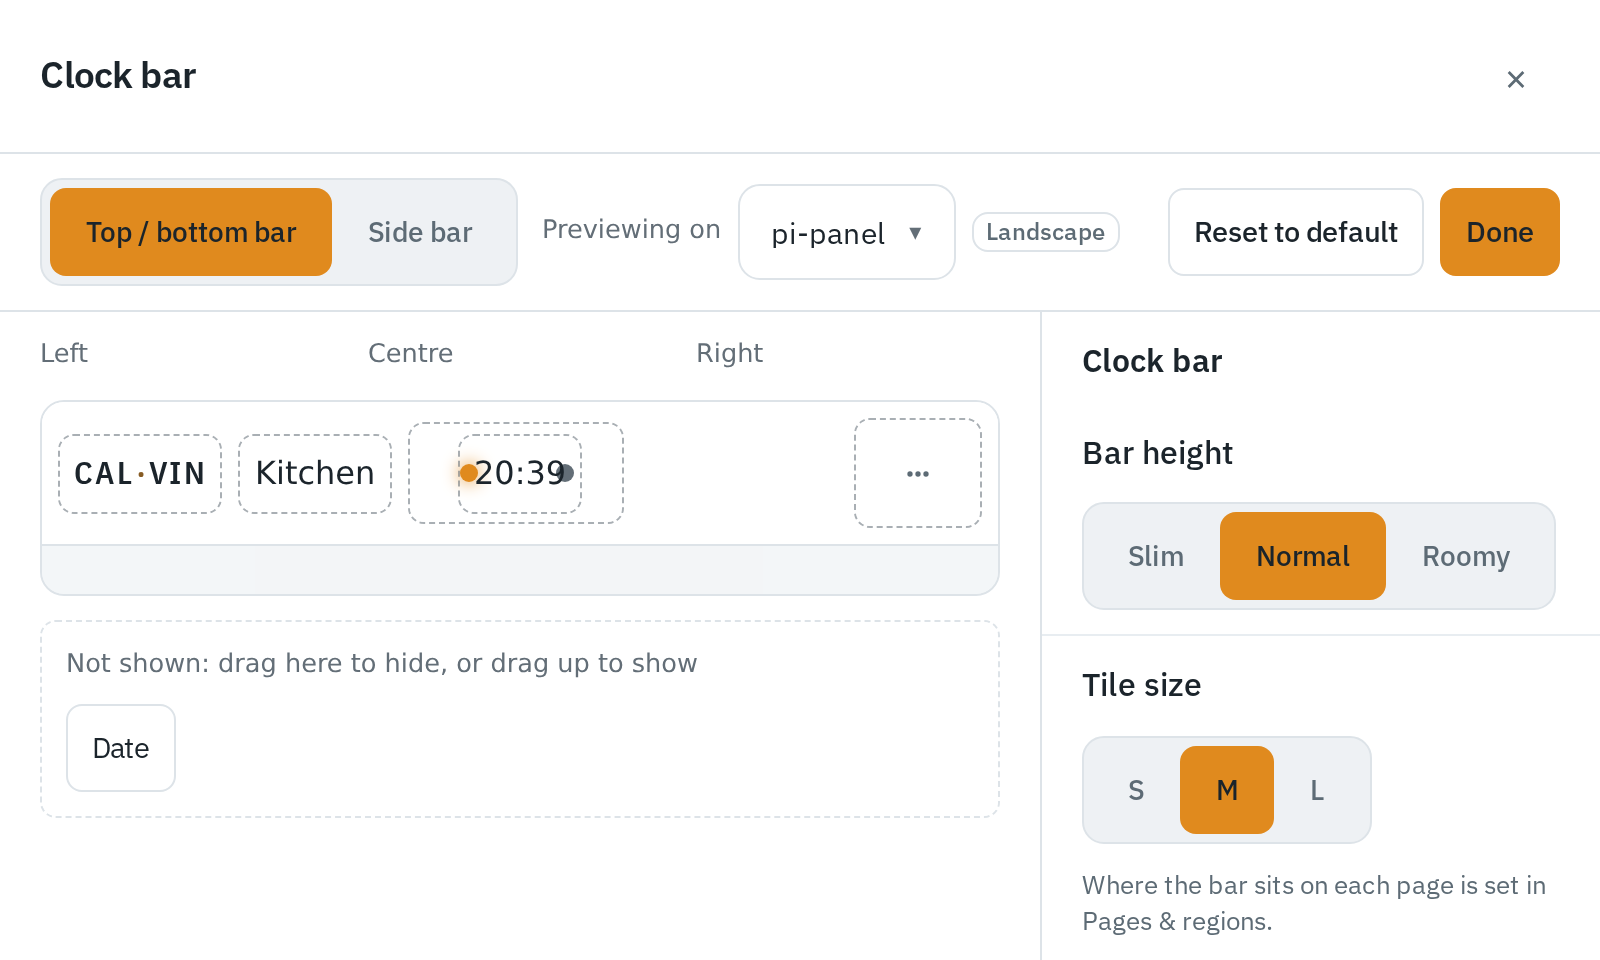
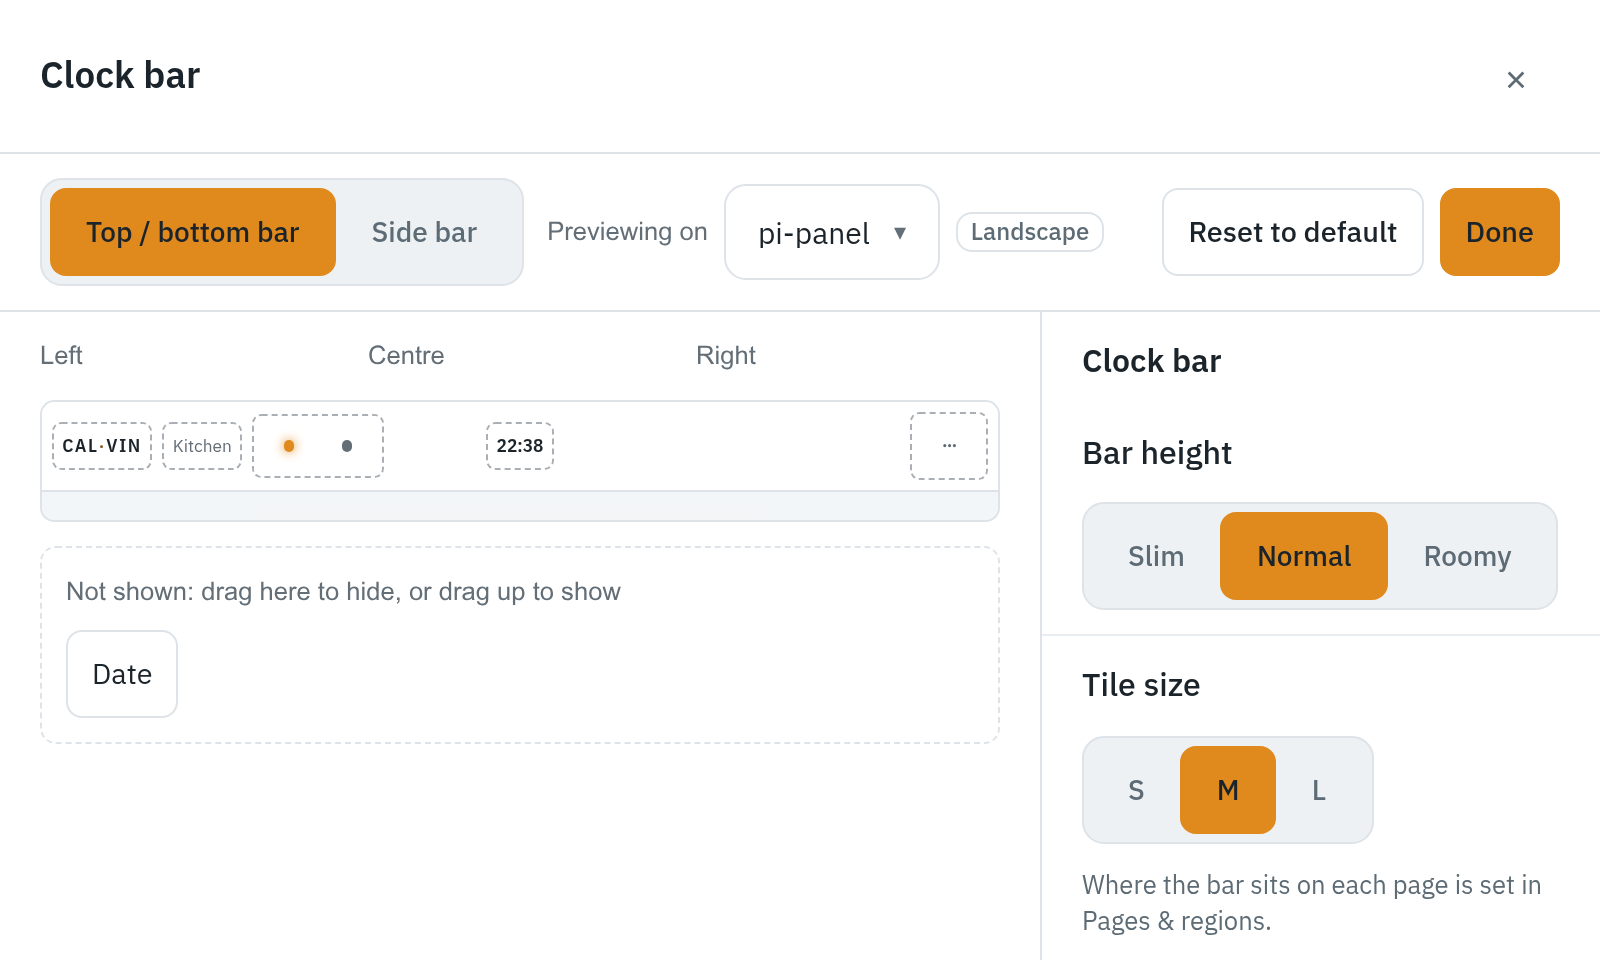
test(e2e): cover the live bar faces and the editor at the previewed width; refresh clock bar editor screenshots (calvin-d7cl)

diff --git a/frontend/tests/e2e/phone/clock-bar-editor-kiosk.spec.js b/frontend/tests/e2e/phone/clock-bar-editor-kiosk.spec.js
@@ -43,6 +43,14 @@ test("kiosk: edit the clock bar at 800x480 and keep it after a reload", async ({
     settleMs: 1600,
   });
 
+  // The bar is drawn at the 800 px screen's width: the page dots keep clear of
+  // the time and the room name is drawn, not an empty box (calvin-d7cl review 7).
+  const box = id => editor.locator(`.clock-bar-horizontal [data-part-id="${id}"]`).boundingBox();
+  const dots = await box("pageDots");
+  const time = await box("time");
+  expect(dots.x + dots.width).toBeLessThanOrEqual(time.x);
+  await expect(editor.locator('[data-part-id="room"] .clock-bar-room')).toBeVisible();
+
   // Show the date from the Not shown shelf.
   await editor.locator('.cbe-shelf [data-part-id="date"]').click();
   await editor.getByLabel("Show Date").click();

diff --git a/frontend/tests/e2e/phone/clock-bar-editor.spec.js b/frontend/tests/e2e/phone/clock-bar-editor.spec.js
@@ -35,6 +35,11 @@ test.describe("phone: clock bar editor", () => {
     await expect(editor.locator(".cbe-shelf")).toBeVisible();
     await expectPhoneLayout(page, "clock bar editor", { scope: ".cbe-root", settleMs: 1600 });
 
+    // The phone-width hide belongs to the live bar: the editor keeps the room
+    // name and the page dots filled in (calvin-d7cl review 7).
+    await expect(editor.locator('[data-part-id="room"] .clock-bar-room')).toBeVisible();
+    await expect(editor.locator('[data-part-id="pageDots"] .screen-dots')).toBeVisible();
+
     // Move Time from the Centre zone to the Right zone with the keyboard/touch
     // alternative to drag.
     await editor.locator('[data-drop-zone="center"] [data-part-id="time"]').click();

diff --git a/frontend/tests/e2e/phone/narrow-clockbar-calendar.spec.js b/frontend/tests/e2e/phone/narrow-clockbar-calendar.spec.js
@@ -29,6 +29,11 @@ test.describe("CLV-110 narrow clock bar and calendar header", () => {
 
     const time = page.locator(".clock-bar-horizontal .clock-time");
     await expect(time).toBeVisible();
+    // The live bar keeps the time's own face (calvin-d7cl review 1).
+    expect(await time.evaluate(el => getComputedStyle(el).fontVariantNumeric)).toContain(
+      "tabular-nums"
+    );
+    expect(await time.evaluate(el => getComputedStyle(el).whiteSpace)).toBe("nowrap");
     const timeBox = await visibleBox(time);
     expect(timeBox).not.toBeNull();
 
